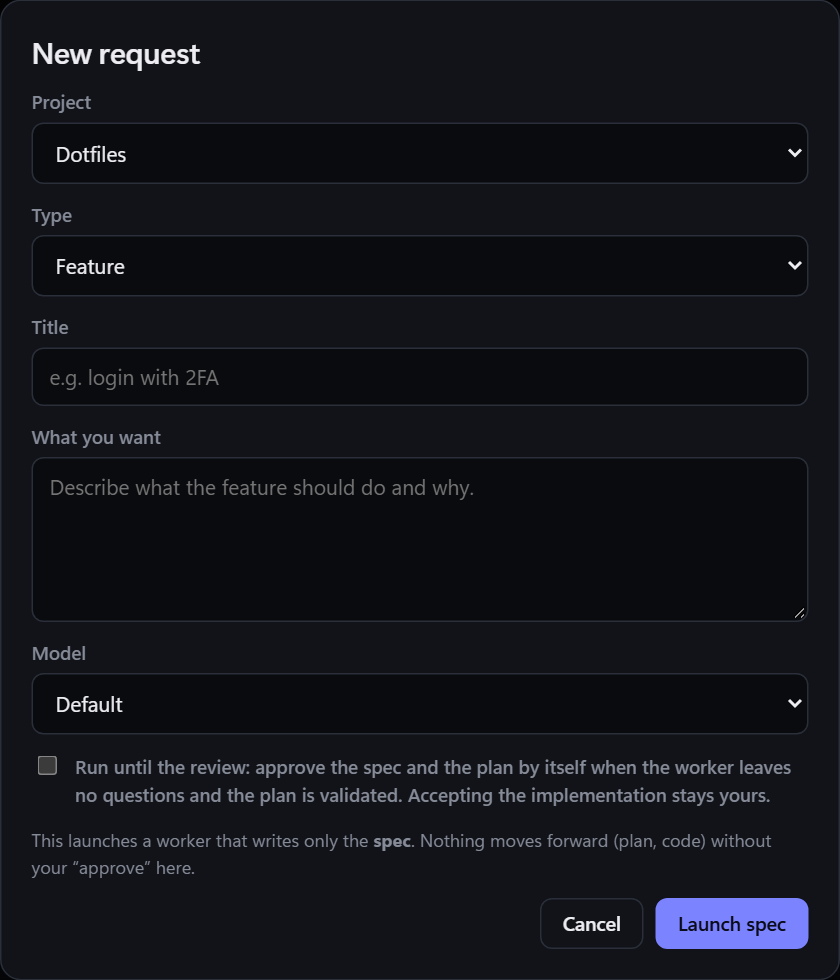
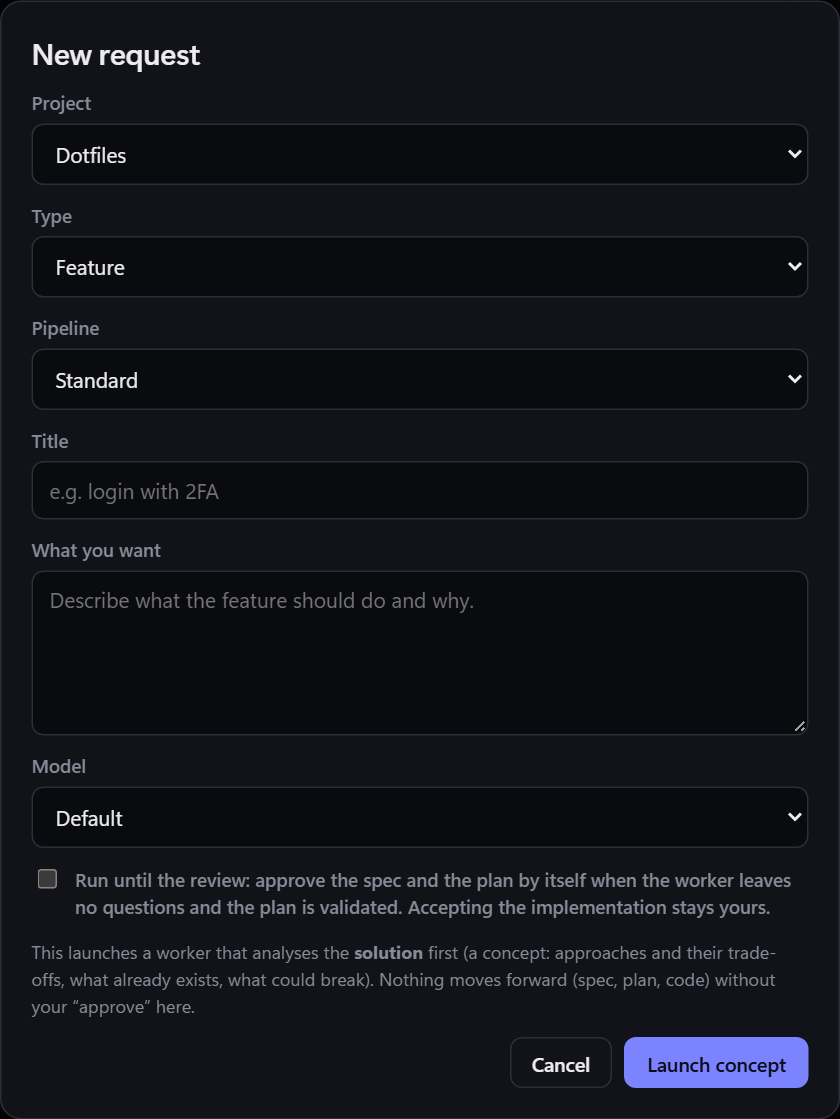
docs: README with the concept phase, pipelines, trust alerts, the audit trail and the real-worker tests; new and regenerated screenshots, updated diagram
The screenshot script gets the new captures and its stale settings wait fixed; the pipelines header no longer collides with the projects list's .phead rule.

diff --git a/app/index.html b/app/index.html
@@ -212,7 +212,7 @@ dialog.wide{width:min(1040px,calc(100vw - 28px));max-height:calc(100vh - 40px);o
 /* Pipelines page */
 #pipelinesView{padding:6px 0 40px}
 #pipelinesView a.btn{display:inline-flex;align-items:center;text-decoration:none}
-.phead{display:flex;align-items:center;gap:12px;margin:14px 0 8px}.phead h2{margin:0;font-family:var(--font-display);font-size:20px;flex:1}
+.pphead{display:flex;align-items:center;gap:12px;margin:14px 0 8px}.pphead h2{margin:0;font-family:var(--font-display);font-size:20px;flex:1}.pphead .btn{flex:none}
 .plist{display:flex;flex-direction:column;border:1px solid var(--line);border-radius:var(--r);overflow:hidden;margin-top:12px}
 .prow{display:flex;align-items:center;gap:12px;padding:10px 14px;border-bottom:1px solid var(--line);background:var(--panel)}.prow:last-child{border-bottom:0}
 .prow .pc{flex:1;min-width:0}.prow .pacts{flex:none;display:flex;gap:6px;flex-wrap:nowrap}.prow .pacts .btn{white-space:nowrap}
@@ -1896,7 +1896,7 @@ function pipeListHtml(){
       <div class="pc pacts">${f.canEdit?`<a class="btn" href="${esc(routeHash({view:"pipelines",id:r.id,edit:true}))}">${tt("Edit")}</a>
         <button class="btn ghost" type="button" data-pa="del" data-id="${id}">${armed?tt("Click again to delete"):tt("Delete")}</button>`
         :`${f.canFork?`<button class="btn" type="button" data-pa="fork" data-id="${id}">${tt("Use as template")}</button>`:""}`}</div></div>`;}).join("");
-  return `<div class="phead"><h2>${tt("Pipelines")}</h2><a class="btn pri" href="${esc(routeHash({view:"pipelines",new:true,id:""}))}">${tt("New pipeline")}</a></div>
+  return `<div class="pphead"><h2>${tt("Pipelines")}</h2><a class="btn pri" href="${esc(routeHash({view:"pipelines",new:true,id:""}))}">${tt("New pipeline")}</a></div>
     <p class="cnote2">${tt("A pipeline is the sequence of steps a kind of request goes through. Built-in ones cannot be changed: make a copy and edit that. Your own pipelines appear in «+ New request» under «Pipeline».")}</p>
     <div class="plist" role="table">${rows||`<p class="pmute">${tt("No pipelines.")}</p>`}</div>
     ${PIPES.home?`<p class="pmute">${tt("Your pipelines are files in")} ${esc(PIPES.home)}</p>`:""}`;
@@ -1906,7 +1906,7 @@ function pipeDetailsHtml(){
   const d=PIPES.data,back=`<a class="btn ghost" href="${esc(routeHash({view:"pipelines"}))}">← ${tt("Pipelines")}</a>`;
   const edit=PIPES.origin==="user"?`<a class="btn" href="${esc(routeHash({view:"pipelines",id:ROUTE.id,edit:true}))}">${tt("Edit")}</a>`
     :`<button class="btn" type="button" data-pa="fork" data-id="${esc(ROUTE.id)}">${tt("Use as template")}</button>`;
-  return `<div class="phead">${back}<h2>${esc(d.name||d.id)}</h2>${edit}</div>
+  return `<div class="pphead">${back}<h2>${esc(d.name||d.id)}</h2>${edit}</div>
     ${!PIPES.valid?`<p class="cnote2 warn">${esc(PIPES.reason)}</p>`:""}
     <p class="pmute">${esc(d.description||"")} · v${esc(d.version)} · ${tt("{n} request(s)",{n:PIPES.used})}</p>${pipeStepsReadOnly(d)}`;
 }
@@ -1927,13 +1927,13 @@ function pipeChooserHtml(){
   const info={feature:"Concept, spec, plan, build and review",fix:"Diagnose, plan, fix and review",maintenance:"Concept, plan, carry out and review; behaviour does not change",
     analysis:"A read-only report, then a check of its facts"};
   const card=k=>`<button class="ptplc" type="button" data-pa="tpl" data-id="${k}"><strong>${esc(KIND_LABEL[k])}</strong><span>${esc(tt(info[k]))}</span></button>`;
-  return `<div class="phead"><a class="btn ghost" href="${esc(routeHash({view:"pipelines"}))}">← ${tt("Pipelines")}</a><h2>${tt("New pipeline")}</h2></div>
+  return `<div class="pphead"><a class="btn ghost" href="${esc(routeHash({view:"pipelines"}))}">← ${tt("Pipelines")}</a><h2>${tt("New pipeline")}</h2></div>
     <p class="cnote2">${tt("What kind of request is it for?")}</p><div class="ptpl">${PIPE_KINDS.map(card).join("")}</div>`;
 }
 function pipeEditorHtml(){
   const d=PIPES.data,cat=PIPES.catalog,isNew=!!ROUTE.new,probs=pipeShown(d,cat),base=PIPES.bases[d.kind];let n=0;
   const cards=d.steps.map((s,i)=>s.type==="approval"?"":pipePhaseCard(d,i,++n)).join("");
-  return `<div class="phead"><a class="btn ghost" href="${esc(routeHash({view:"pipelines"}))}" data-pa="cancel">← ${tt("Pipelines")}</a><h2>${isNew?tt("New pipeline"):tt("Edit pipeline")}</h2></div>
+  return `<div class="pphead"><a class="btn ghost" href="${esc(routeHash({view:"pipelines"}))}" data-pa="cancel">← ${tt("Pipelines")}</a><h2>${isNew?tt("New pipeline"):tt("Edit pipeline")}</h2></div>
     ${PIPES.forked?`<p class="pmute">${tt("A copy of")} «${esc(PIPES.forked)}»</p>`:""}
     <div class="ptop"><label class="pf pname"><span>${tt("Name your pipeline")}</span><input data-pf="name" value="${esc(d.name||"")}"></label>
       <label class="pf"><span>${tt("Type of request")}</span><select data-pf="kind">${d.kind?"":`<option value="">${esc(tt("(choose)"))}</option>`}${PIPE_KINDS.map(k=>`<option value="${k}"${k===d.kind?" selected":""}>${esc(KIND_LABEL[k])}</option>`).join("")}</select></label></div>

diff --git a/README.md b/README.md
@@ -1,12 +1,14 @@
 # Chief of Staff
 
-**A chief of staff for your coding projects.** It sits next to [Claude Code](https://code.claude.com/docs) and turns "I want this done" into a supervised pipeline: a worker writes the spec, you decide; a worker plans it, an independent validator checks the plan; a worker implements it in its own git worktree, an independent reviewer re-runs the tests; and you merge. Nothing is ever pushed for you.
+**A chief of staff for your coding projects.** It sits next to [Claude Code](https://code.claude.com/docs) and turns "I want this done" into a supervised pipeline: a worker analyses the solution and an independent validator challenges it, you decide; a worker writes the spec, you decide; a worker plans it, an independent validator checks the plan; a worker implements it in its own git worktree, an independent reviewer re-runs the tests; and you merge. Nothing is ever pushed for you.
 
 <p align="center"><img src="docs/img/dashboard.png" alt="The Chief's dashboard: requests at every stage of the pipeline, session to-dos and workers" width="900"></p>
 
 - **A dashboard** (127.0.0.1 only) that shows just what needs a decision from you.
-- **A supervised pipeline** for features, bug fixes, maintenance and read-only analyses, with your approval at every gate.
-- **Independent checks built in**: plans are validated and implementations are reviewed *and re-tested* by workers that never saw the author's context.
+- **A supervised pipeline** for features, bug fixes, maintenance and read-only analyses, with your approval at every gate. Features and maintenance start with a **concept**: the solution analysed (approaches, trade-offs, what already exists, what could break) before anyone writes a spec.
+- **Independent checks built in**: concepts and plans are validated and implementations are reviewed *and re-tested* by workers that never saw the author's context.
+- **Pipelines of your own**: choose the type, drop the plan validation, set each phase's model, effort and review rounds, and pick the pipeline when you start a request.
+- **A trail you can audit**: every decision of a request is written to a file that outlives the card, with a digest of what was approved.
 - **Session to-dos**: what you left unfinished in your Claude Code sessions, ready to resume or turn into a request.
 - **Work sessions with their time and AI cost**: start and end a session, see how long it was and what the workers cost, per model and per project (an estimate, labelled as one).
 - **An optional knowledge vault** (Obsidian-style markdown) that workers write to and an automatic curator keeps tidy, with every change revertible.
@@ -59,9 +61,13 @@ One honest caveat: the pipeline relies on workers following long, structured pro
 
 ## A tour of the dashboard
 
-Two tabs sit at the top: **Today** (everything below, the things that need you) and **Projects** (what each project looks like right now).
+Three tabs sit at the top: **Today** (everything below, the things that need you), **Projects** (what each project looks like right now) and **Pipelines** (the steps each kind of request goes through, and your own).
 
-**Requests** move through the pipeline; the page only shows what needs you. A worker writes a spec and leaves its open questions; the Chief turns them into a form with a recommended option for each:
+**Requests** move through the pipeline; the page only shows what needs you. Features and maintenance start with a **concept**: a worker analyses the solution (two or three real approaches with their trade-offs, what already exists in the repository, what could break, the smallest useful version, numbered decisions) and an independent validator, working from a fresh context, challenges it. For each finding you choose **Fix** or **Accept**, and nothing moves on until you approve the concept; the spec (or the plan, for maintenance) then builds on its decisions and deals with any finding you accepted:
+
+<p align="center"><img src="docs/img/request-concept.png" alt="A concept with its approaches and decisions, the independent validation and its findings, waiting for the user's approval" width="860"></p>
+
+Then a worker writes a spec and leaves its open questions; the Chief turns them into a form with a recommended option for each:
 
 <p align="center"><img src="docs/img/request-spec.png" alt="A spec waiting for decisions, with the open questions as a form" width="860"></p>
 
@@ -95,6 +101,21 @@ You start a request from **+ New request**, choosing its kind (feature, bug fix,
 **Workers can suggest requests.** A worker that finds follow-up work (for example a commit after an analysis) can suggest a request. The suggestion appears under **Suggested by workers** with the worker's name; nothing starts until you click **Review and create** and confirm the pre-filled dialog. Each worker can have at most 5 open suggestions, and anything that looks like a credential is removed from them.
 
 <p align="center"><img src="docs/img/new-request.png" alt="The new request dialog" width="420">&nbsp;&nbsp;<img src="docs/img/settings.png" alt="Settings" width="460"></p>
+
+**Pipelines.** The Pipelines tab lists the six built-in pipelines and your own. A pipeline of yours is the built-in phases of **one** request type, in order: you choose the type (feature, bug fix, maintenance or analysis), whether the concept and the independent plan validation are included, and each phase's model, effort and review rounds. Phases, prompts and files stay the built-in ones, so anything you save can run; the server refuses what cannot. A request started from one of your pipelines follows a snapshot of it, so editing or deleting the pipeline later does not change a request already running.
+
+<p align="center"><img src="docs/img/pipelines.png" alt="The Pipelines tab: your own pipeline first, then the six built-in ones" width="860"></p>
+<p align="center"><img src="docs/img/pipeline-editor.png" alt="The pipeline editor: a copy of the feature type without the plan validation, one card per phase with its model, effort and rounds" width="860"></p>
+
+Your pipelines appear in **+ New request** under **Pipeline**; the request then has that pipeline's type and its card shows the pipeline's name and its own phases:
+
+<p align="center"><img src="docs/img/new-request-pipeline.png" alt="The new request dialog with one of the user's own pipelines selected" width="420"></p>
+
+**Folders Claude Code does not trust.** `claude --bg` refuses to start a worker in a folder (or with an added folder, such as the vault) you have not accepted. When that happens the dashboard shows an alert naming the folder, with **Trust this folder**; a second click confirms, and with **Notify me** on you also get a browser notification. Only a folder the Chief manages and that a launch really refused can be added, only on your click, and only that one flag is written in Claude Code's own settings (a backup is left next to it). Trusting the vault also starts the curation again.
+
+<p align="center"><img src="docs/img/trust-alert.png" alt="Two alerts for folders Claude Code does not trust, each with a Trust this folder button" width="860"></p>
+
+**Review warnings.** A card under review warns when the change is larger than `review_limits` (800 lines or 25 files by default) or touches a path matching `protected_paths`. It only informs: the review and your decision are unchanged, and no file names leave the server.
 
 **Projects** lists every project with its category, branch and uncommitted changes, open requests, fixes waiting, and estimated cost. Sort by **Needs attention** (the default) or **Name**, and the search box filters by name. Click one to open its page: a header with a one-sentence description, the branch, changes and last commit, then **Needs attention** (review findings and blocked to-dos, each review finding with a **Create fix request** button that opens the new-request dialog as a bug fix with the finding filled in), its **requests**, an **overview and architecture** (from the vault note or the README), its **documents** (README, `CLAUDE.md`, `ARCHITECTURE.md`, `docs/specs|plans|analyses`, opened in a dialog), its **tools** (commands and the names of the Claude Code skills, agents and MCP servers it configures), **costs**, and its **workers and to-dos**. Each block says where its data came from and disappears when it has nothing to show. Project names elsewhere in the dashboard link to the page.
 
@@ -149,7 +170,9 @@ Every report must say what was actually executed and verified (`EXECUTED AND VER
 | **Maintenance** | concept → plan → execution → review | Behaviour must not change: the suite stays equal to the baseline. No spec. |
 | **Analysis** | read-only report → independent verification | No worktree, no commit. The approved report is archived in the project's `docs/analyses/` and in the vault. |
 
-Approved specs and plans are also copied into the project (`docs/specs/`, `docs/plans/`), uncommitted and never overwriting anything.
+Approved concepts, specs and plans are also copied into the project (`docs/concepts/`, `docs/specs/`, `docs/plans/`), uncommitted and never overwriting anything.
+
+**An audit trail.** Every event of a request (approvals, automatic rounds, the commit, a cancellation) is appended to `decisions.md` in its folder, and at the moments that matter the line carries a short digest of the artifacts that existed then, so «which version did I approve?» can be answered later.
 
 **After you accept.** The merge is yours, and the card helps you finish: it shows the exact commands to merge `feat/<id>`, notices when the branch is merged, and then offers to remove the worktree and the branch. Git itself refuses to remove uncommitted work or an unmerged branch; throwing work away is a separate, explicit action on cancelled requests. **Create follow-up request** starts the next part with a link to the one it follows.
 
@@ -231,6 +254,8 @@ That separation is what lets you **evolve the application while you use it**:
 
 If you keep notes in an Obsidian-style folder, point `vault` at it. Workers leave a note in its `inbox/` when they finish; when the inbox has been quiet for 10 minutes the curator makes a **checkpoint commit**, promotes the drafts into `wiki/` and your project notes, and makes a **second commit** with only what it changed, so `git revert` undoes it. It never deletes a draft it is unsure about (it moves it to a review folder), omits secrets, and marks what it could not confirm. Outside that curation, the Chief never edits an existing note. If a usage limit interrupts the curation it is paused, not failed: the dashboard says when it continues, and it does not count towards the failures that stop the automation.
 
+If Claude Code does not trust the vault folder, the curation cannot start: it shows as **blocked**, not as a failure, retries by itself and starts as soon as you trust the folder (see above). `python scripts/chief.py doctor` warns about it too.
+
 The folder and key names follow `vault_language` (`en` by default, or `pt`):
 
 | | `en` | `pt` |
@@ -243,7 +268,7 @@ The folder and key names follow `vault_language` (`en` by default, or `pt`):
 
 ## Configuration
 
-`projects.json` in your data folder; everything but `models` and `sensitive_paths` can also be edited in **⚙ Settings**.
+`projects.json` in your data folder; everything but `models`, `sensitive_paths`, `review_limits` and `protected_paths` can also be edited in **⚙ Settings**.
 
 | Key | Meaning |
 |---|---|
@@ -255,7 +280,9 @@ The folder and key names follow `vault_language` (`en` by default, or `pt`):
 | `domains` | Per-project category (colours and filters in the dashboard). |
 | `hide_domains` | Categories to hide from the dashboard and from workers. |
 | `models` | Names offered in the model menu. Any name Claude Code accepts. |
-| `phase_models`, `phase_efforts` | Optional model and effort per phase (`spec`, `plan`, `plan-validation`, `build`, `review`, `qa`), e.g. `{"plan": "opus", "review": "sonnet"}` and `{"qa": "low"}`. A phase listed here outranks the request's model; `""` follows it. Questions to the worker use Sonnet unless set. The «By phase» table in the costs dialog shows what each phase costs. |
+| `phase_models`, `phase_efforts` | Optional model and effort per phase (`concept`, `concept-validation`, `spec`, `plan`, `plan-validation`, `build`, `review`, `qa`), e.g. `{"plan": "opus", "review": "sonnet"}` and `{"qa": "low"}`. A phase listed here outranks the request's model; `""` follows it. Questions to the worker use Sonnet unless set. The «By phase» table in the costs dialog shows what each phase costs. |
+| `review_limits` | Size above which a card under review warns: `{"max_diff_lines": 800, "max_diff_files": 25}` (0 turns a limit off). |
+| `protected_paths` | Globs of paths that are sensitive (`["**/migrations/**", "*.ddl"]`): a card whose change touches one warns. Empty by default. |
 | `phase_tools` | Permission rules handed to the worker of a phase that must run git commands a background worker cannot ask about, keyed `<kind>:<stage>`: `{"ship:review": {"allow": ["Bash(git push -u:*)"], "deny": ["Bash(git push*--force*)"]}}`. By default only the *Publish* request has rules (commit in its first phase; push and `gh pr create` in its second, after you approve, with force, delete and merge denied). An empty entry switches a default off. Your Claude Code settings are never changed. |
 | `prices` | Your own prices per model, in USD per million tokens, for the cost estimates. Overrides the built-in list (see [Work sessions and costs](#work-sessions-and-costs)). |
 | `resume_after_limit` | `true` (default): restart a phase a usage limit interrupted, once the limit has reset. See [Plan usage and usage limits](#plan-usage-and-usage-limits). |
@@ -271,6 +298,7 @@ The folder and key names follow `vault_language` (`en` by default, or `pt`):
 - The pipeline's commit refuses files that look like secrets (`.env*`, private keys, `credentials.json`, `secrets.json`): nothing is committed and the card names the files.
 - Workers are told not to delete what they did not create, not to touch secrets (`.env*`, keys, tokens) and not to run irreversible or production actions; those are written as steps for you instead.
 - The Chief never reads or stores credentials and never logs in to GitHub for you; cloning uses the login your git already has.
+- The one place it writes in Claude Code's own settings is when you click **Trust this folder** (and **Connect** for the plan meters): it sets that single flag, leaves a backup next to the file and reads nothing else from it.
 - The project pages read only files inside the project's folder, and only the documents the Chief lists (README, `CLAUDE.md`, `ARCHITECTURE.md`, `docs/specs|plans|analyses`). `.env*`, keys, tokens, secrets files, `settings.local.json` and `CLAUDE.local.md` are never read, and links that leave the project folder are refused. Text is redacted (secrets, private IP addresses, e-mails) before it leaves the server; the Tools block shows names only, never values. Vault `[[wikilinks]]` render as plain text, or as a link when they name a project.
 - Session to-dos are read from your Claude Code sessions with secrets, e-mails and private IP addresses stripped.
 - Costs are computed locally from your own session logs; nothing about them is sent anywhere.
@@ -287,6 +315,14 @@ English is the source language of the code, the prompts and the dashboard; Portu
 python -m pytest tests                  # a few minutes (it starts real demo servers); runs against a throw-away data folder
 python -m pytest tests -m "not slow"    # under two minutes: everything except the tests that start a demo server
 ```
+
+**Real workers.** The suite above uses simulated workers. `tests/real/` drives your own Claude Code for real: a concept written and validated, approved, and read by the spec; requested changes; a maintenance request; and how `claude --bg` treats trusted and untrusted folders. They spend tokens and take minutes, so they are off by default:
+
+```bash
+CHIEF_REAL_TESTS=1 python -m pytest tests/real -q -s      # PowerShell: $env:CHIEF_REAL_TESTS = "1"
+```
+
+They use a small throw-away project (`CHIEF_REAL_PROJECT`, default `D:/_chief_probe/proj`, which Claude Code must already trust) and never change your trusted folders.
 
 The tests never read or write your real data: `tests/conftest.py` points the Chief at a temporary folder before anything is imported.
 
@@ -306,7 +342,7 @@ It starts its own demo server and a headless browser, takes the pictures, and cl
 app/            the dashboard: server.py (HTTP + API) and index.html (the whole UI)
 scripts/        the Chief itself: chief.py (CLI), features.py (pipeline), prompts*.py, curation.py, ...
 docs/           capture_screenshots.mjs and docs/img/
-tests/          pytest suite
+tests/          pytest suite; tests/real/ drives real Claude Code workers (opt-in); tests/legacy_pipelines/ keeps the pipelines without the concept for the tests of that flow
 CLAUDE.md       the instructions Claude Code follows when you open it in this folder
 ```
 
